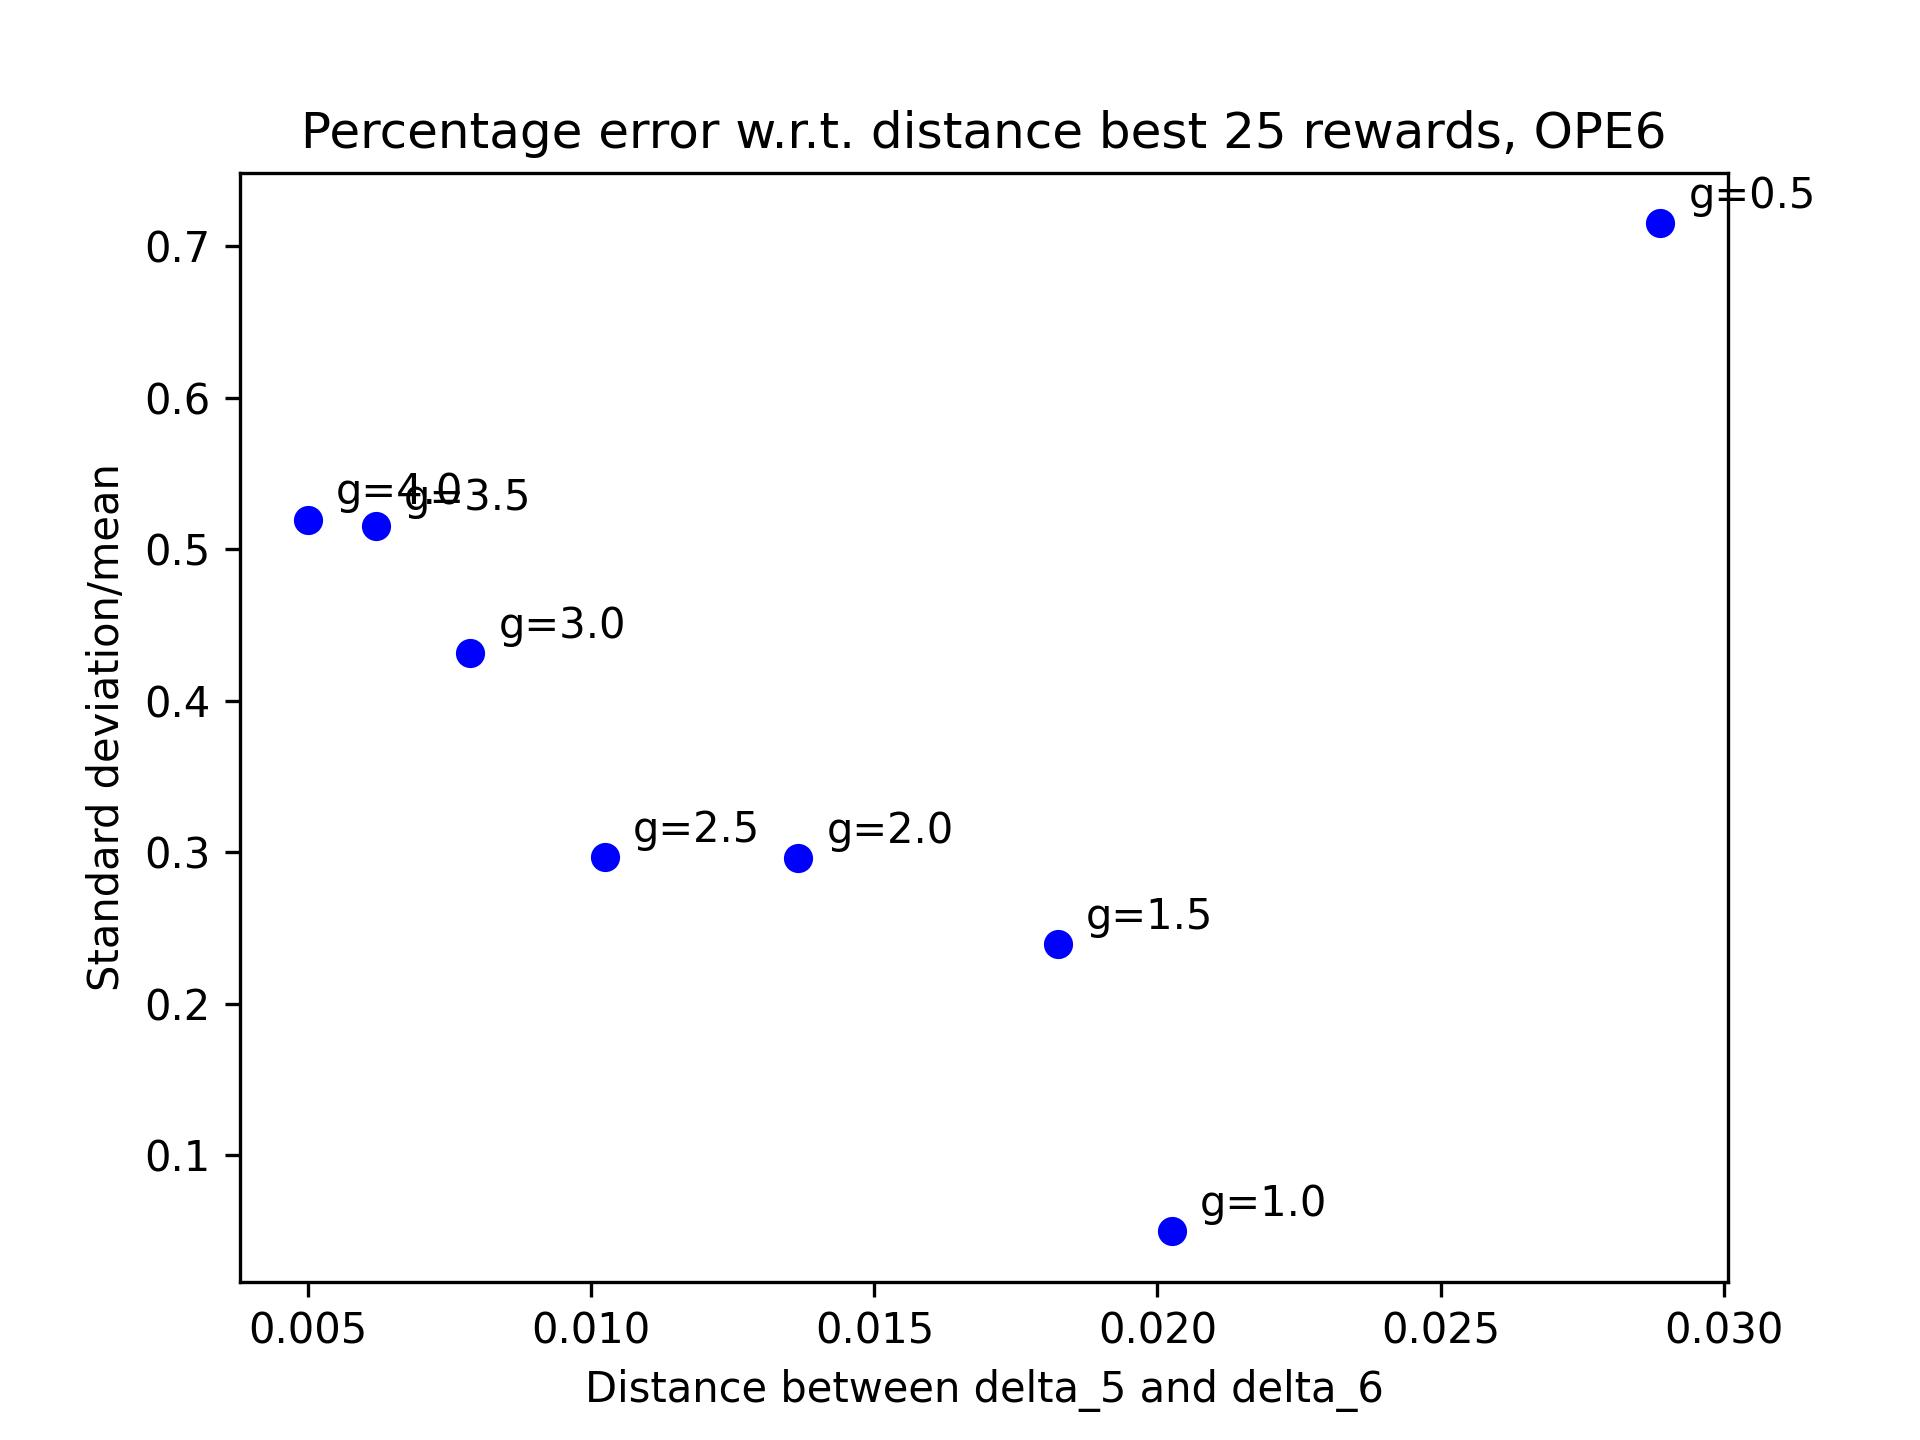
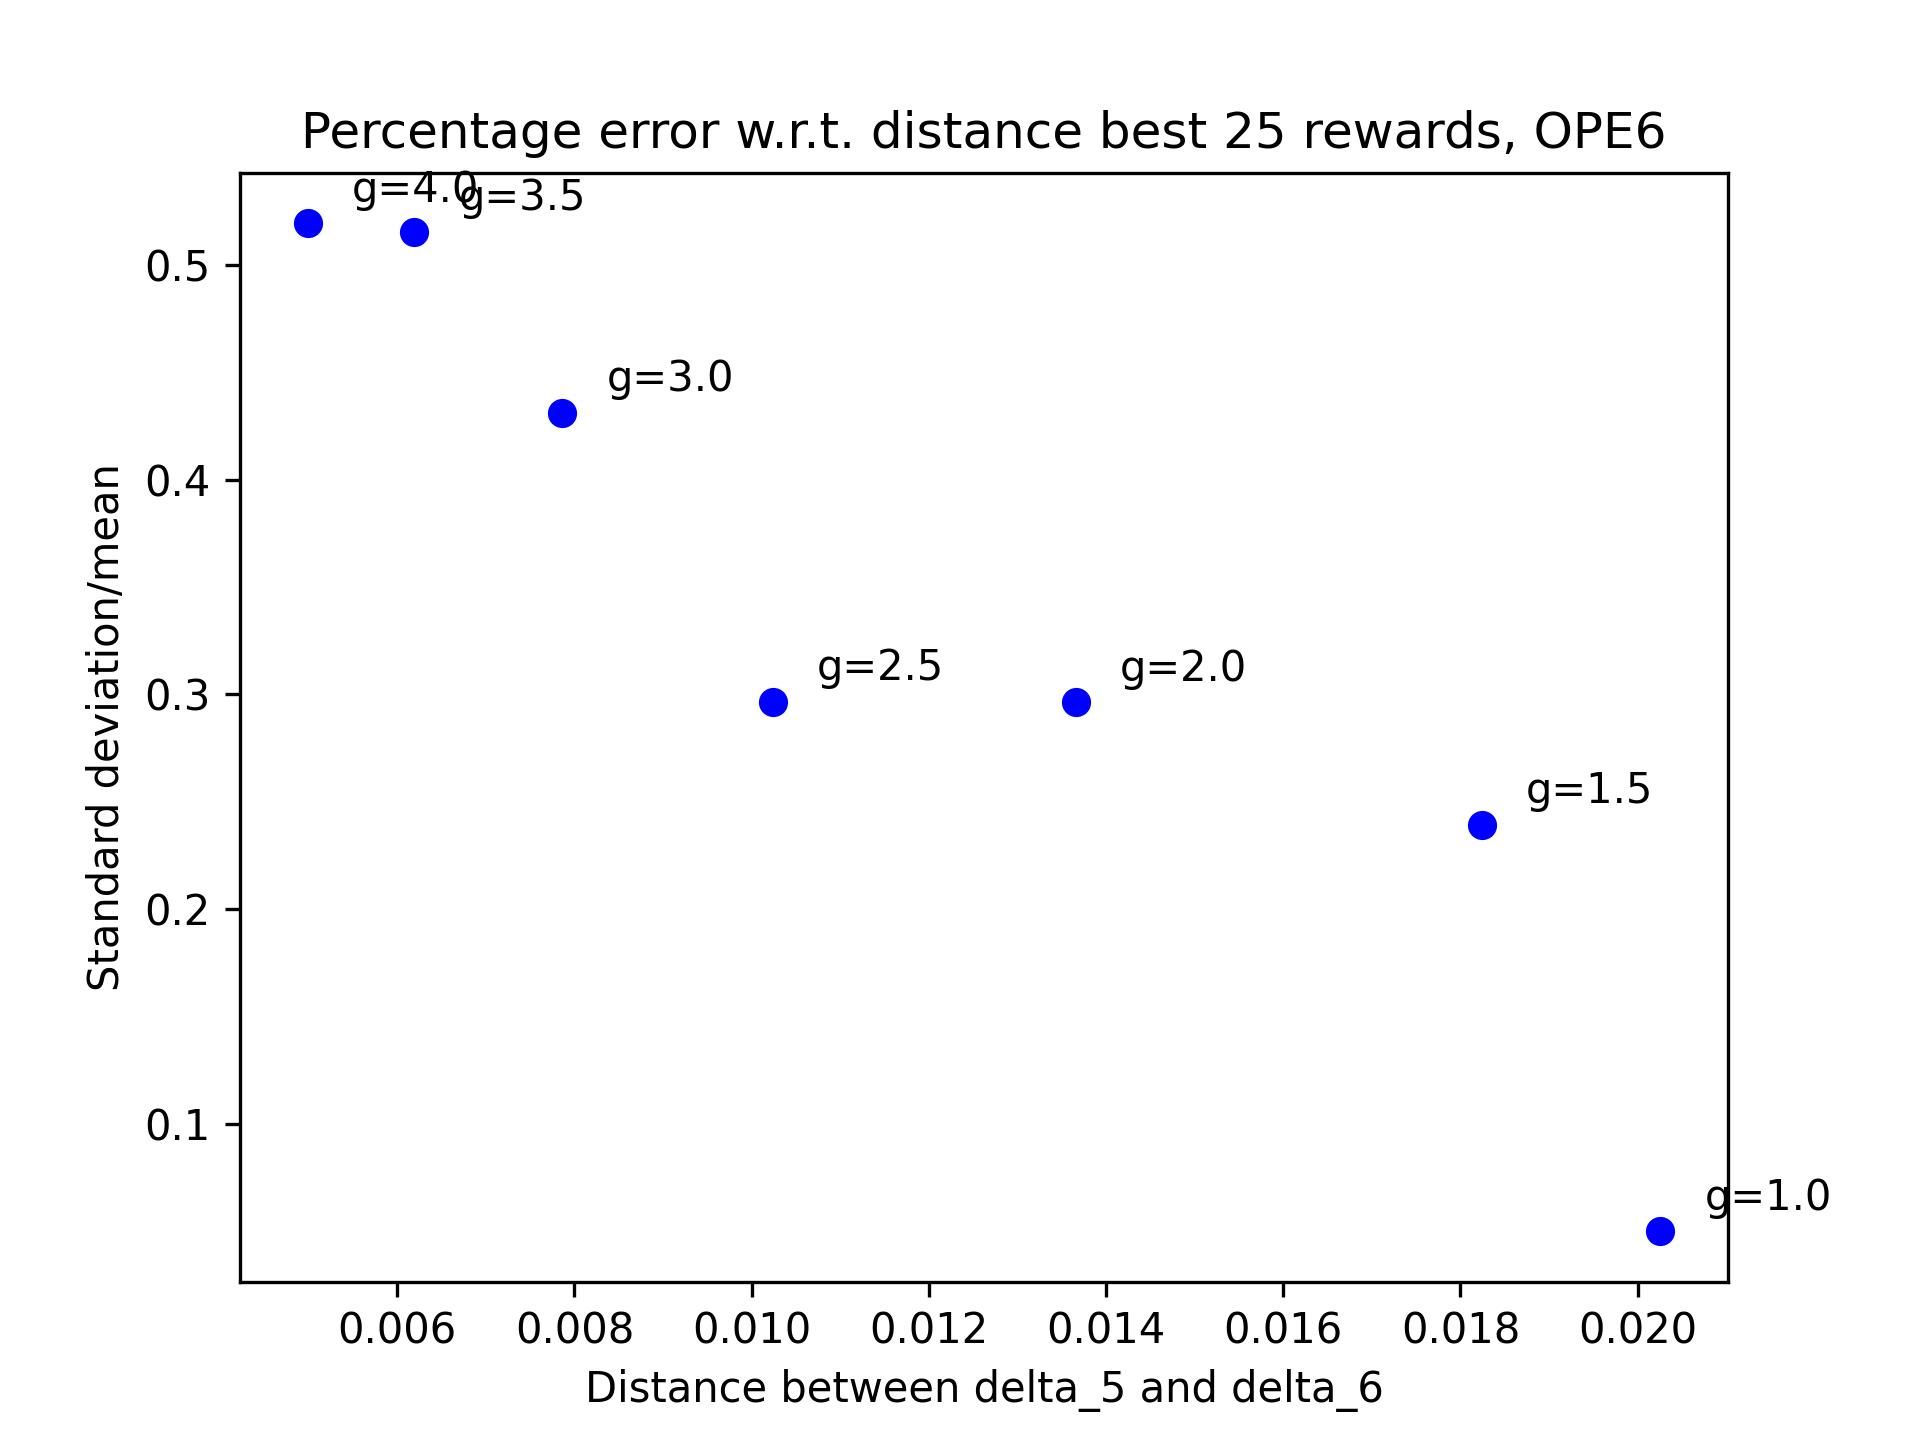
Some more results analyzed added

diff --git a/analyze_BPS_uncertainty.py b/analyze_BPS_uncertainty.py
@@ -11,17 +11,17 @@ import os
 import re
 
 
-OPE_first = 5
-OPE_second = 6
+OPE_first = 9
+OPE_second = 10
 best_rew_to_take = 25
 best_reward = 0.
 delta_len = 10
 lambda_len = 10
 lambda_fix = 3
 
-g_list = [0.5, 1., 1.5, 2., 2.5, 3., 3.5, 4.]
+g_list = [1., 1.5, 2., 2.5, 3., 3.5, 4.]
 path_list = [
-    join('.', 'results_BPS', 'results_BPS_3fix_g05'),
+    #join('.', 'results_BPS', 'results_BPS_3fix_g05'),
     join('.', 'results_BPS', 'results_BPS_3fix_g1'),
     join('.', 'results_BPS', 'results_BPS_3fix_g15'),
     join('.', 'results_BPS', 'results_BPS_3fix_g2'),
@@ -113,8 +113,8 @@ for k, (g_el, path_el) in enumerate(zip(g_list, path_list)):
 
 plt.figure()
 plt.scatter(x=dist_OPE, y=std_OPE_first/mean_OPE_first, color='blue')
-for i in range(8):
-    plt.text(x=dist_OPE[i]+0.0005, y=std_OPE_first[i]/mean_OPE_first[i]+0.01, s=f'g={str(g_list[i])}')
+for i in range(len(g_list)):
+    plt.text(x=dist_OPE[i]+0.0005, y=std_OPE_first[i]/mean_OPE_first[i]+0.0001, s=f'g={str(g_list[i])}')
 plt.ylabel('Standard deviation/mean')
 plt.xlabel(f'Distance between delta_{OPE_first} and delta_{OPE_second}')
 plt.title(f'Percentage error w.r.t. distance best {best_rew_to_take} rewards, OPE{OPE_first}')
@@ -122,7 +122,7 @@ plt.savefig(join('BPS_analyzed_uncertainty', f'uncertainty_analysis_OPE{OPE_firs
 
 plt.figure()
 plt.scatter(x=dist_OPE, y=std_OPE_second/mean_OPE_second, color='blue')
-for i in range(8):
+for i in range(len(g_list)):
     plt.text(x=dist_OPE[i]+0.0005, y=std_OPE_second[i]/mean_OPE_second[i]+0.01, s=f'g={str(g_list[i])}')
 plt.ylabel('Standard deviation/mean')
 plt.xlabel(f'Distance between delta_{OPE_first} and delta_{OPE_second}')
@@ -131,8 +131,8 @@ plt.savefig(join('BPS_analyzed_uncertainty', f'uncertainty_analysis_OPE{OPE_seco
 
 plt.figure()
 plt.scatter(x=dist_OPE, y=std_OPE_sum/mean_OPE_sum, color='blue')
-for i in range(8):
-    plt.text(x=dist_OPE[i]+0.0005, y=std_OPE_sum[i]/mean_OPE_sum[i]+0.005, s=f'g={str(g_list[i])}')
+for i in range(len(g_list)):
+    plt.text(x=dist_OPE[i]+0.0005, y=std_OPE_sum[i]/mean_OPE_sum[i]+0.00001, s=f'g={str(g_list[i])}')
 plt.ylabel('Standard deviation/mean')
 plt.xlabel(f'Distance between delta_{OPE_first} and delta_{OPE_second}')
 plt.title(f'Percentage error w.r.t. distance best {best_rew_to_take} rewards, OPE{OPE_first}+OPE{OPE_second}')

diff --git a/analyze_BPS_bounds.py b/analyze_BPS_bounds.py
@@ -15,10 +15,10 @@ best_reward = 0.
 delta_len = 10
 lambda_len = 10
 lambda_fix = 1
-rew_to_take = 10
+rew_to_take = 25
 
 
-g_list = np.array([0.05, 0.1, 0.15, 0.2, 0.25, 0.3, 0.35, 0.4, 0.45])
+g_list = np.array([0.05, 0.1, 0.15, 0.2, 0.25, 0.3, 0.35, 0.4, 0.45, 0.5, 1.])
 g_indexes = np.zeros(len(g_list), dtype=np.int32)
 gs = np.concatenate((np.arange(start=0.01, stop=0.25, step=0.01),
                      np.arange(start=0.25, stop=4.05, step=0.05),
@@ -41,7 +41,10 @@ path_list = [
     join('.', 'results_BPS', 'results_BPS_1fix_g030'),
     join('.', 'results_BPS', 'results_BPS_1fix_g035'),
     join('.', 'results_BPS', 'results_BPS_1fix_g040'),
-    join('.', 'results_BPS', 'results_BPS_1fix_g045')
+    join('.', 'results_BPS', 'results_BPS_1fix_g045'),
+    join('.', 'results_BPS', 'results_BPS_1fix_g05'),
+    join('.', 'results_BPS', 'results_BPS_1fix_g1'),
+    #join('.', 'results_BPS', 'results_BPS_1fix_g15')
 ]
 experiments = len(path_list)
 

diff --git a/analyze_BPS_OPEs.py b/analyze_BPS_OPEs.py
@@ -11,17 +11,17 @@ import re
 import seaborn as sns
 import pandas as pd
 
-rew_to_take = 10
+rew_to_take = 25
 gs = np.concatenate((np.arange(start=0.01, stop=0.25, step=0.01),
                      np.arange(start=0.25, stop=4.05, step=0.05),
                      #np.arange(start=4.25, stop=5.25, step=0.25)
                      ))
 gs = np.around(gs, decimals=2)
-g = 1.5
+g = 0.5
 g_index = np.argwhere(gs==g)[0]
-OPE_fix=3
-path = join('.', 'results_BPS', f'results_BPS_{OPE_fix}fix_g15')
-prefix = 'g15'
+OPE_fix = 1
+path = join('.', 'results_BPS', f'results_BPS_{OPE_fix}fix_g05')
+prefix = 'g050'
 onlyfiles = [f for f in listdir(path) if isfile(join(path, f))]
 r = re.compile('sac[0-9]+.csv')
 onlyfiles = list(filter(r.match, onlyfiles))
